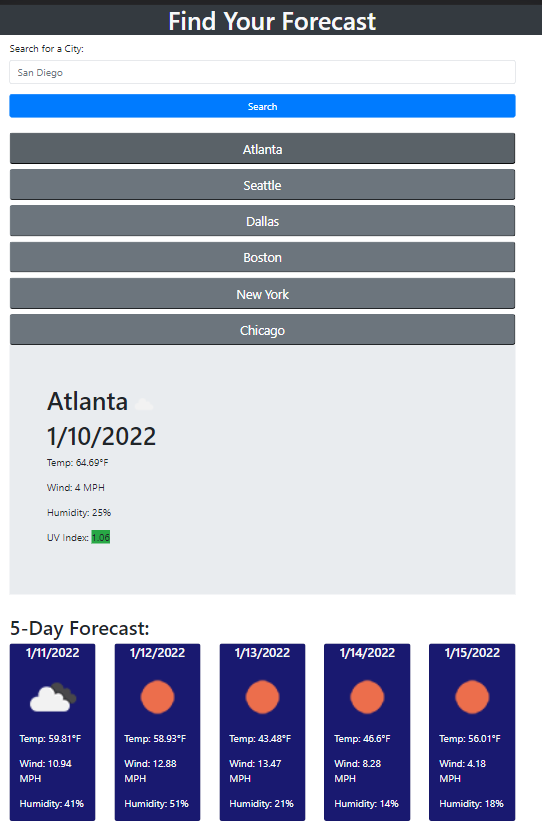
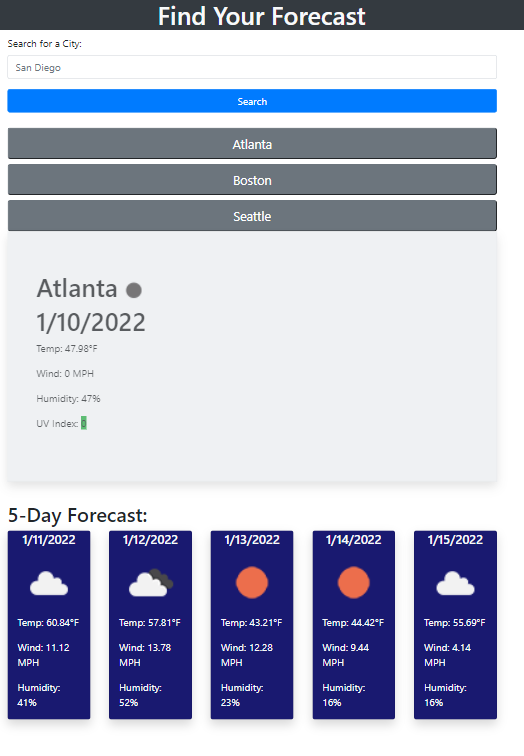
updated styling

diff --git a/index.html b/index.html
@@ -28,7 +28,7 @@
       <div id="saved"></div>
     </aside>
     <section id="forecast" class="col-12 col-lg-10">
-      <div class="jumbotron jumbotron-fluid mx-auto">
+      <div class="jumbotron jumbotron-fluid mx-auto border-bottom border-right shadow">
         <div class="container">
           <h1><span id="hero-city"></span> <br /> <span id="hero-date"></span></h1>
           <p>Temp: <span id="hero-temp"></span></p>
@@ -39,8 +39,10 @@
       </div>
       <h2>5-Day Forecast:</h2>
       <div id="5-day-forecast" class="card-deck row row-cols-5"></div>
+      <br />
     </section>
   </main>
+  
   <script src="https://code.jquery.com/jquery-3.6.0.js"></script>
   <script src="https://cdn.jsdelivr.net/npm/bootstrap@4.5.3/dist/js/bootstrap.bundle.min.js" integrity="sha384-ho+j7jyWK8fNQe+A12Hb8AhRq26LrZ/JpcUGGOn+Y7RsweNrtN/tE3MoK7ZeZDyx" crossorigin="anonymous"></script>
   <script src="./assets/js/script.js"></script>

diff --git a/assets/js/script.js b/assets/js/script.js
@@ -83,7 +83,7 @@ $('#search-form').on('click', 'button', function(event){
       for (i = 1; i <= 5; i++) {
         
         let $card = $('<div></div>', {
-          'class': 'card col bg-dark-blue text-light',
+          'class': 'card col bg-dark-blue text-light shadow',
         }).appendTo($('#5-day-forecast'));
         
         // extract date and render
@@ -194,7 +194,7 @@ $('#saved').on('click', 'button', function(event){
     for (i = 1; i <= 5; i++) {
 
       let $card = $('<div></div>', {
-        'class': 'card col bg-dark-blue text-light',
+        'class': 'card col bg-dark-blue text-light shadow',
       }).appendTo($('#5-day-forecast'));
       
       // extract date and render

diff --git a/assets/css/style.css b/assets/css/style.css
@@ -1,3 +1,7 @@
+.jumbotron {
+  opacity: .75;
+}
+
 .bg-orange {
   background-color: orange;
 }
